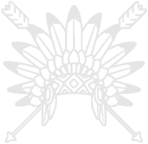
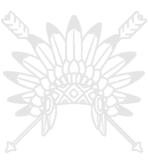
Dashboard

diff --git a/resources/views/back/home.blade.php b/resources/views/back/home.blade.php
@@ -14,19 +14,71 @@ Dashboard
   <div class="panel panel-tile text-center br-a br-grey">
     <div class="panel-body">
       @role('Admin')
-      <img src="{{ asset('assets/back/img/dashboard-chief.png')}}" alt="Dashboard">
-      <h1 class="fs30 mt5 mbn">Welkom {{ Auth::user()->firstname }}</h1>
+      <img src="{{ asset('assets/back/img/dashboard-user.png')}}" alt="Dashboard">
+      <h1 class="fs30 mt5 mbn">Ahéhee {{ Auth::user()->firstname }}</h1>
       <h6 class="text-system">Your new name will be "{{ Auth::user()->getAlterEgo() }}"</h6>
 
       @endrole
       @role('User')
-      <img src="{{ asset('assets/back/img/dashboard.png')}}" alt="Dashboard">
-      <h1 class="fs30 mt5 mbn">Welkom {{ Auth::user()->firstname }}</h1>
+      <img src="{{ asset('assets/back/img/dashboard-user.png')}}" alt="Dashboard">
+      <h1 class="fs30 mt5 mbn">Ahéhee {{ Auth::user()->firstname }}</h1>
       <h6 class="text-system">Your new name will be "{{ Auth::user()->getAlterEgo() }}"</h6>
 
       @endrole
     </div>
+    <div class="panel-footer br-t p12">
+      <span class="fs11">
+        Ga naar je <b>account</b>
+        <i class="fa fa-arrow-right pr5 text-default"></i>
+      </span>
+    </div>
   </div>
 </div>
-</div>
+
+            <!-- // ORDER COUNTER -->
+            <div class="col-md-4">
+              <div class="panel panel-tile text-center br-a br-grey">
+                <div class="panel-body">
+                  <h1 class="fs30 mt5 mbn">16</h1>
+                  <h6 class="text-success">BESTELLINGEN</h6>
+                </div>
+                <div class="panel-footer br-t p12">
+                  <span class="fs11">
+                    Ga naar je <b>bestellingen</b>
+                    <i class="fa fa-arrow-right pr5 text-success"></i>
+                  </span>
+                </div>
+              </div>
+            </div>
+            <!-- // PRODUCT COUNTER -->
+            <div class="col-md-4">
+              <div class="panel panel-tile text-center br-a br-grey">
+                <div class="panel-body">
+                  <h1 class="fs30 mt5 mbn">248</h1>
+                  <h6 class="text-warning">PRODUCTEN</h6>
+                </div>
+                <div class="panel-footer br-t p12">
+                  <span class="fs11">
+                    Ga naar je <b>catalogus</b>
+                    <i class="fa fa-arrow-right pr5 text-warning"></i>
+                  </span>
+                </div>
+              </div>
+            </div>
+            <!-- // USER COUNTER -->
+            <div class="col-md-4">
+              <div class="panel panel-tile text-center br-a br-grey">
+                <div class="panel-body">
+                  <h1 class="fs30 mt5 mbn">74</h1>
+                  <h6 class="text-danger">KLANTEN</h6>
+                </div>
+                <div class="panel-footer br-t p12">
+                  <span class="fs11">
+                    Ga naar de <b>gebruikers</b>
+                    <i class="fa fa-arrow-right pr5 text-danger"></i>
+                  </span>
+                </div>
+              </div>
+            </div>
+          </div>
 @stop

diff --git a/resources/views/back/_layouts/master.blade.php b/resources/views/back/_layouts/master.blade.php
@@ -6,7 +6,7 @@
     <meta charset="utf-8">
     <meta name="google" content="notranslate" />
     <meta http-equiv="Content-Language" content="en_US" />
-    <title>Chief • Admin</title>
+    <title>Chief • @yield('page-title', 'Admin')</title>
     <meta name="author" content="Chief">
     <meta name="viewport" content="width=device-width, initial-scale=1.0">
     <link rel="icon" href="{{ asset('assets/back/img/favicon.ico')}}" type="image/x-icon">

diff --git a/resources/views/back/_modules/header.blade.php b/resources/views/back/_modules/header.blade.php
@@ -10,7 +10,7 @@
   <ul class="nav navbar-nav navbar-right mn">
     <li>
       <a class="ph15">
-        Ahéhee, {{ Auth::user()->firstname }}
+        Welkom, {{ Auth::user()->firstname }}
       </a>
     </li>
     <li class="menu-divider hidden-xs">
